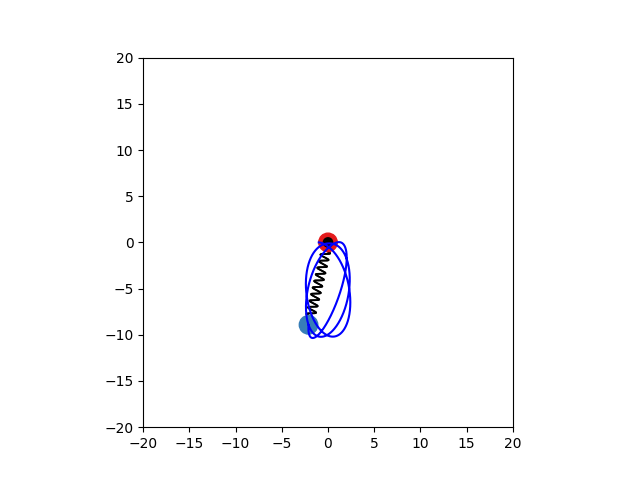
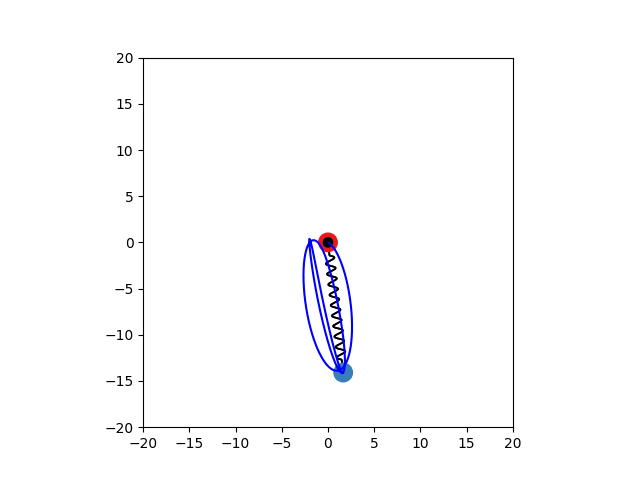
example documentation added

Changed region(s): [[0.4688, 0.5, 0.5625, 0.8125]]

diff --git a/DEAnimationAdvanced.py b/DEAnimationAdvanced.py
@@ -46,7 +46,7 @@ for i in range(len(Solution.movingShapes)):
 
 miscShapes = []
 spring = AnimationShapes.ConnectingShape(Spring((0,0), (0,0), ax, r=0.5*circleRadius, ns=10), masses[1], staticShapes[0])
-# miscShapes.append(spring)
+miscShapes.append(spring)
 
 # collect all shapes in array to pass to animate()
 shapes = [
@@ -60,4 +60,5 @@ shapes = [
 # classes of used custom shapes (shapes that are not contained in matplotlib)
 customShapes=(Spring,)
 
-Animation.animate(fig, ax, shapes, Solution.model.STEP_SIZE, customShapes, saveGif=True, fileName=Solution.model.name, fps=20, dpi=100)
+Animation.animate(fig, ax, shapes, Solution.model.STEP_SIZE, customShapes, 
+                  saveGif=True, fileName=Solution.model.name, fps=20, dpi=100)

diff --git a/Solution.py b/Solution.py
@@ -1,12 +1,12 @@
 import numpy as np
 
-from expl.FreePendulum import FreePendulum
+# from expl.FreePendulum import FreePendulum
 # from expl.RollerPlane import RollerPlane
-# from expl.FreeSpring import FreeSpring
+from expl.FreeSpring import FreeSpring
 
-model = FreePendulum("FreiBeweglichesPendel")
+# model = FreePendulum("FreiBeweglichesPendel")
 # model = RollerPlane("RolleBeweglicheSchiefeEbene")
-# model = FreeSpring("FreiSchwingendeFeder")
+model = FreeSpring("FreiSchwingendeFeder")
 T = model.T
 solution = model.solution
 staticShapes = model.staticShapes

diff --git a/expl/FreeSpring.py b/expl/FreeSpring.py
@@ -27,10 +27,10 @@ class FreeSpring(Model):
         return dY
 
     # intial conditions
-    x0 = -1.0
-    phi0 = 90*np.pi/180
+    x0 = 0.1
+    phi0 = 60*np.pi/180
     v0 = 3.0
-    omega0 = 0.1
+    omega0 = -1.5
     Y0 = np.array([x0, phi0, v0, omega0])
 
     # time window [s]

diff --git a/expl/RollerPlane.md b/expl/RollerPlane.md
@@ -1,0 +1,40 @@
+# Example: Rolling cylinder on angled moving Plane
+## Find langrangian function
+$$
+\mathcal{L} = \frac{m+M}{2}\dot{u}^2+\frac{I + M R^2}{2}\dot{\theta}^2+M R \dot{u} \dot{\theta} \cos{\varphi} + M g R \theta \sin{\varphi}
+$$
+## Defining differential equation system
+$$
+\begin{align}
+\dot{u} &= v,\\
+\dot{\theta} &= \omega,\\
+\dot{v} &= -\frac{c_1 c_2 g \cos{\varphi}\sin{\varphi}}{1-c_1 c_2 \cos^2{\varphi}},\\
+\dot{\omega} &= \frac{c_2 g \sin{\varphi}}{R\left(1-c_1 c_2 \cos^2{\varphi}\right)}
+\end{align}
+$$
+```
+def equationSystem(t, Y):
+    dY = [None]*4
+    dY[0] = Y[2]
+    dY[1] = Y[3]
+    dY[2] = -c1*c2*g*np.sin(phi)*np.cos(phi) / (1 - c1*c2*np.cos(phi)**2)
+    dY[3] = c2*g*np.sin(phi) / (R * (1 - c1*c2*np.cos(phi)**2))
+    return dY
+```
+## Defining transformation to cartesian coordinates
+$$
+\begin{align}
+x_1 &= u, &\quad y_1 &= 0, \\
+x_2 &= u + R \theta \cos{\varphi}, &\quad y_2 &= H - R \theta \sin{\varphi}
+\end{align}
+$$
+```
+def coordTrans(self, pos):
+    x = pos[0] + R*pos[1]*np.cos(phi)
+    y = H - R*pos[1]*np.sin(phi)
+    return [pos[0],0.0*pos[0],x,y]
+```
+## Simple plot result
+![](../img/RolleBeweglicheSchiefeEbenePlot.png)
+## Advanced animation result
+![](../img/RolleBeweglicheSchiefeEbeneAnim.gif)

diff --git a/expl/FreeSpring.md b/expl/FreeSpring.md
@@ -1,0 +1,41 @@
+# Example: Free moving spring
+## Find langrangian function
+$$
+\mathcal{L} = \frac{1}{2}m \left( \dot{r}^2 + r^2 \dot{\varphi}^2 \right) + mgr \cos{\varphi} - \frac{D}{2} \left( r - L_0 \right)^2
+$$
+## Defining differential equation system
+$$
+\begin{align}
+\dot{r} &= v,\\
+\dot{\varphi} &= \omega,\\
+\dot{v} &= r \omega^2 + \cos{\varphi} - \frac{k}{m} \left( r - L_0 \right),\\
+\dot{\omega} &= - \frac{2v\omega}{r} + \frac{g}{r} \sin{\varphi}
+\end{align}
+$$
+```
+def equationSystem(t, Y):
+    dY = [None]*4
+    dY[0] = Y[2]
+    dY[1] = Y[3]
+    dY[2] = Y[0] * Y[3]**2 + g * np.cos(Y[1]) - k/m * (Y[0] - l)
+    dY[3] = -2 * Y[3] * Y[2] / Y[0] - g * np.sin(Y[1]) / Y[0]
+    return dY
+```
+## Defining transformation to cartesian coordinates
+$$
+\begin{equation}
+x = L_0\sin{\varphi}, \quad y = -L_0\cos{\varphi}
+\end{equation}
+$$
+```
+def coordTrans(self, pos):
+    x1 = pos[0]*0
+    y1 = pos[0]*0
+    x2 = pos[0]*np.cos(pos[1]-np.pi/2)
+    y2 = pos[0]*np.sin(pos[1]-np.pi/2)
+    return [x1, y1, x2, y2]
+```
+## Simple plot result
+![](../img/FreiSchwingendefederPlot.png)
+## Advanced animation result
+![](../img/FreiSchwingendefederAnim.gif)
